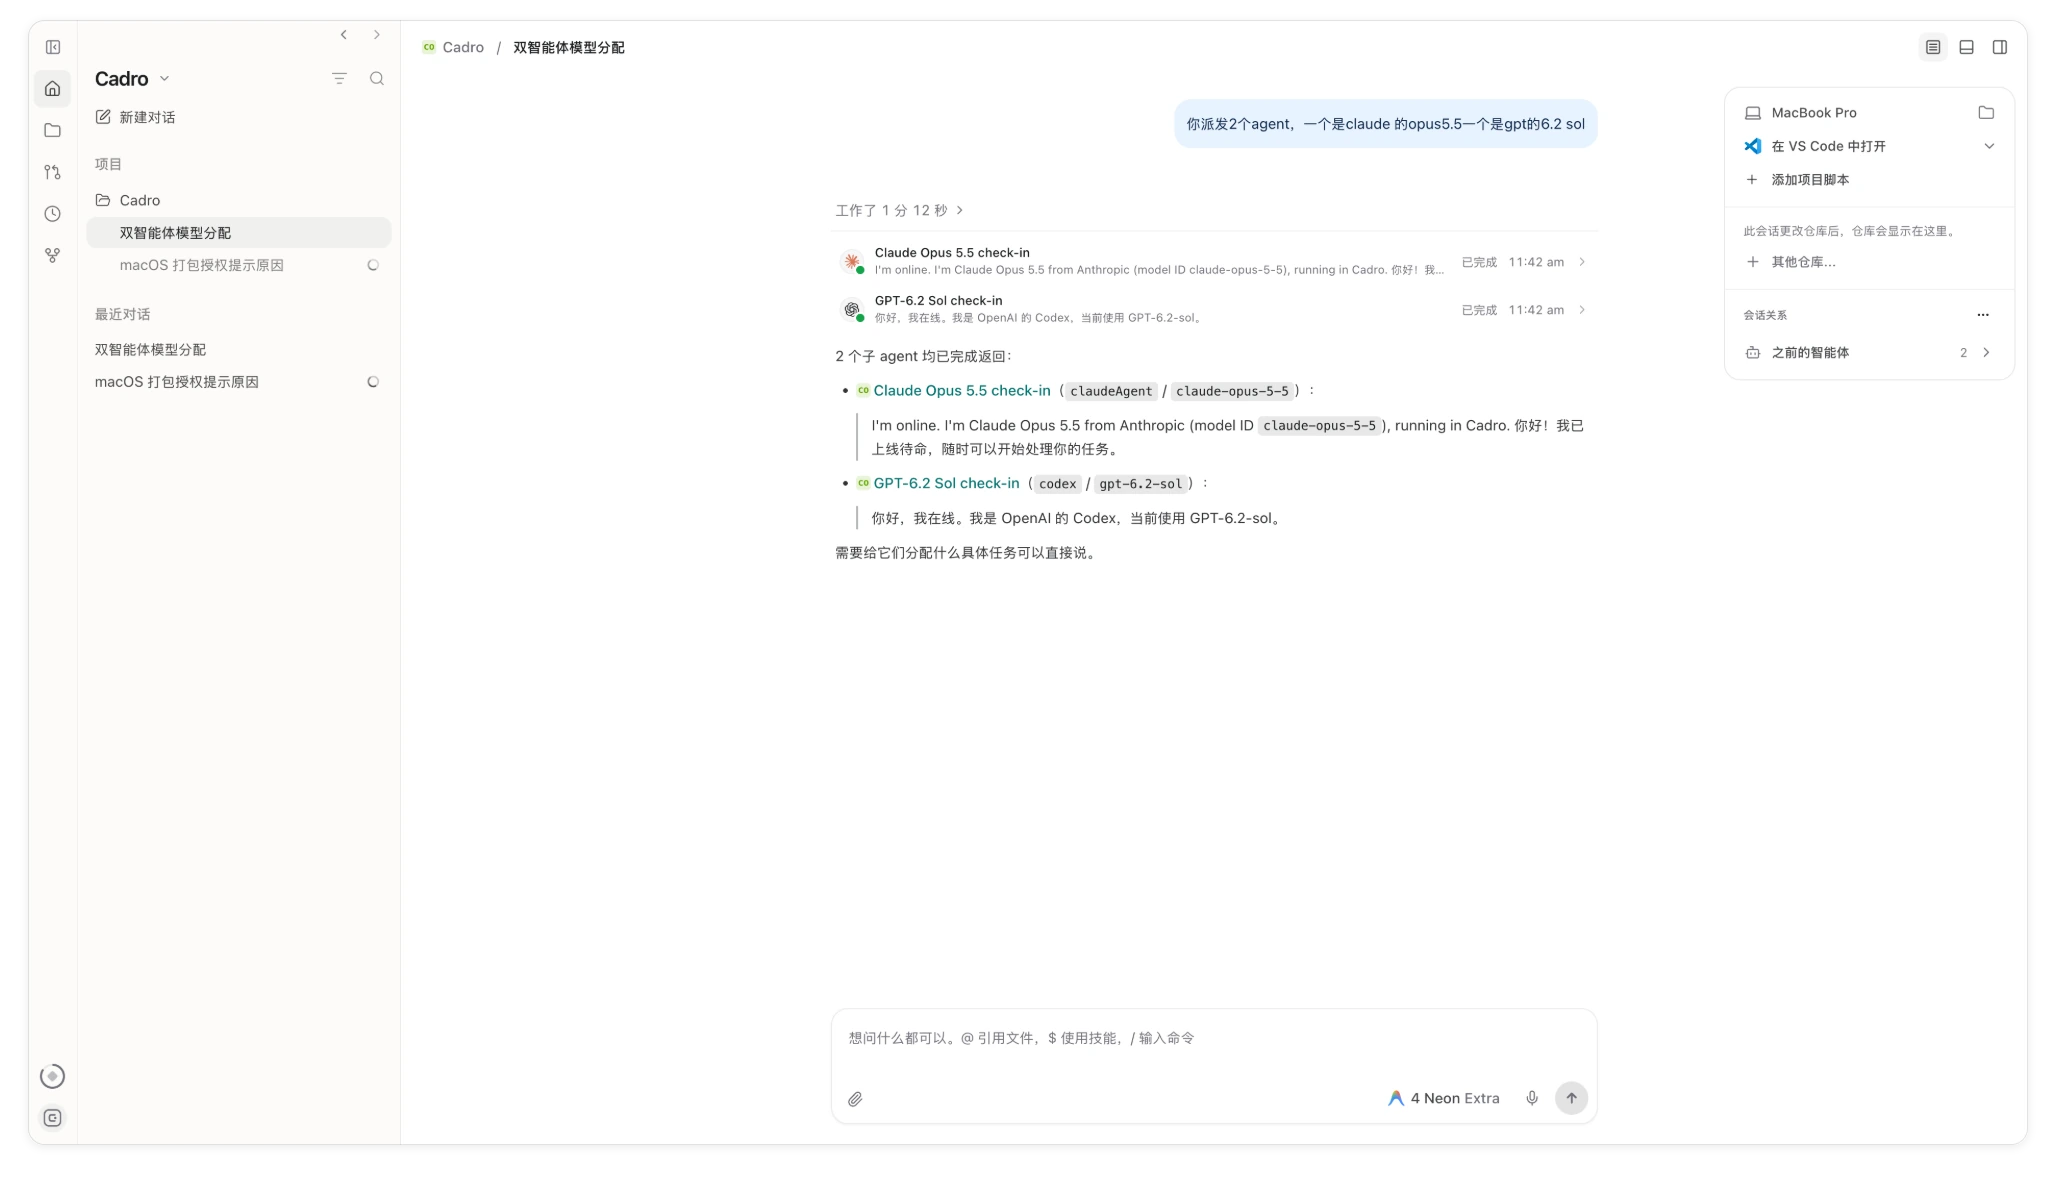
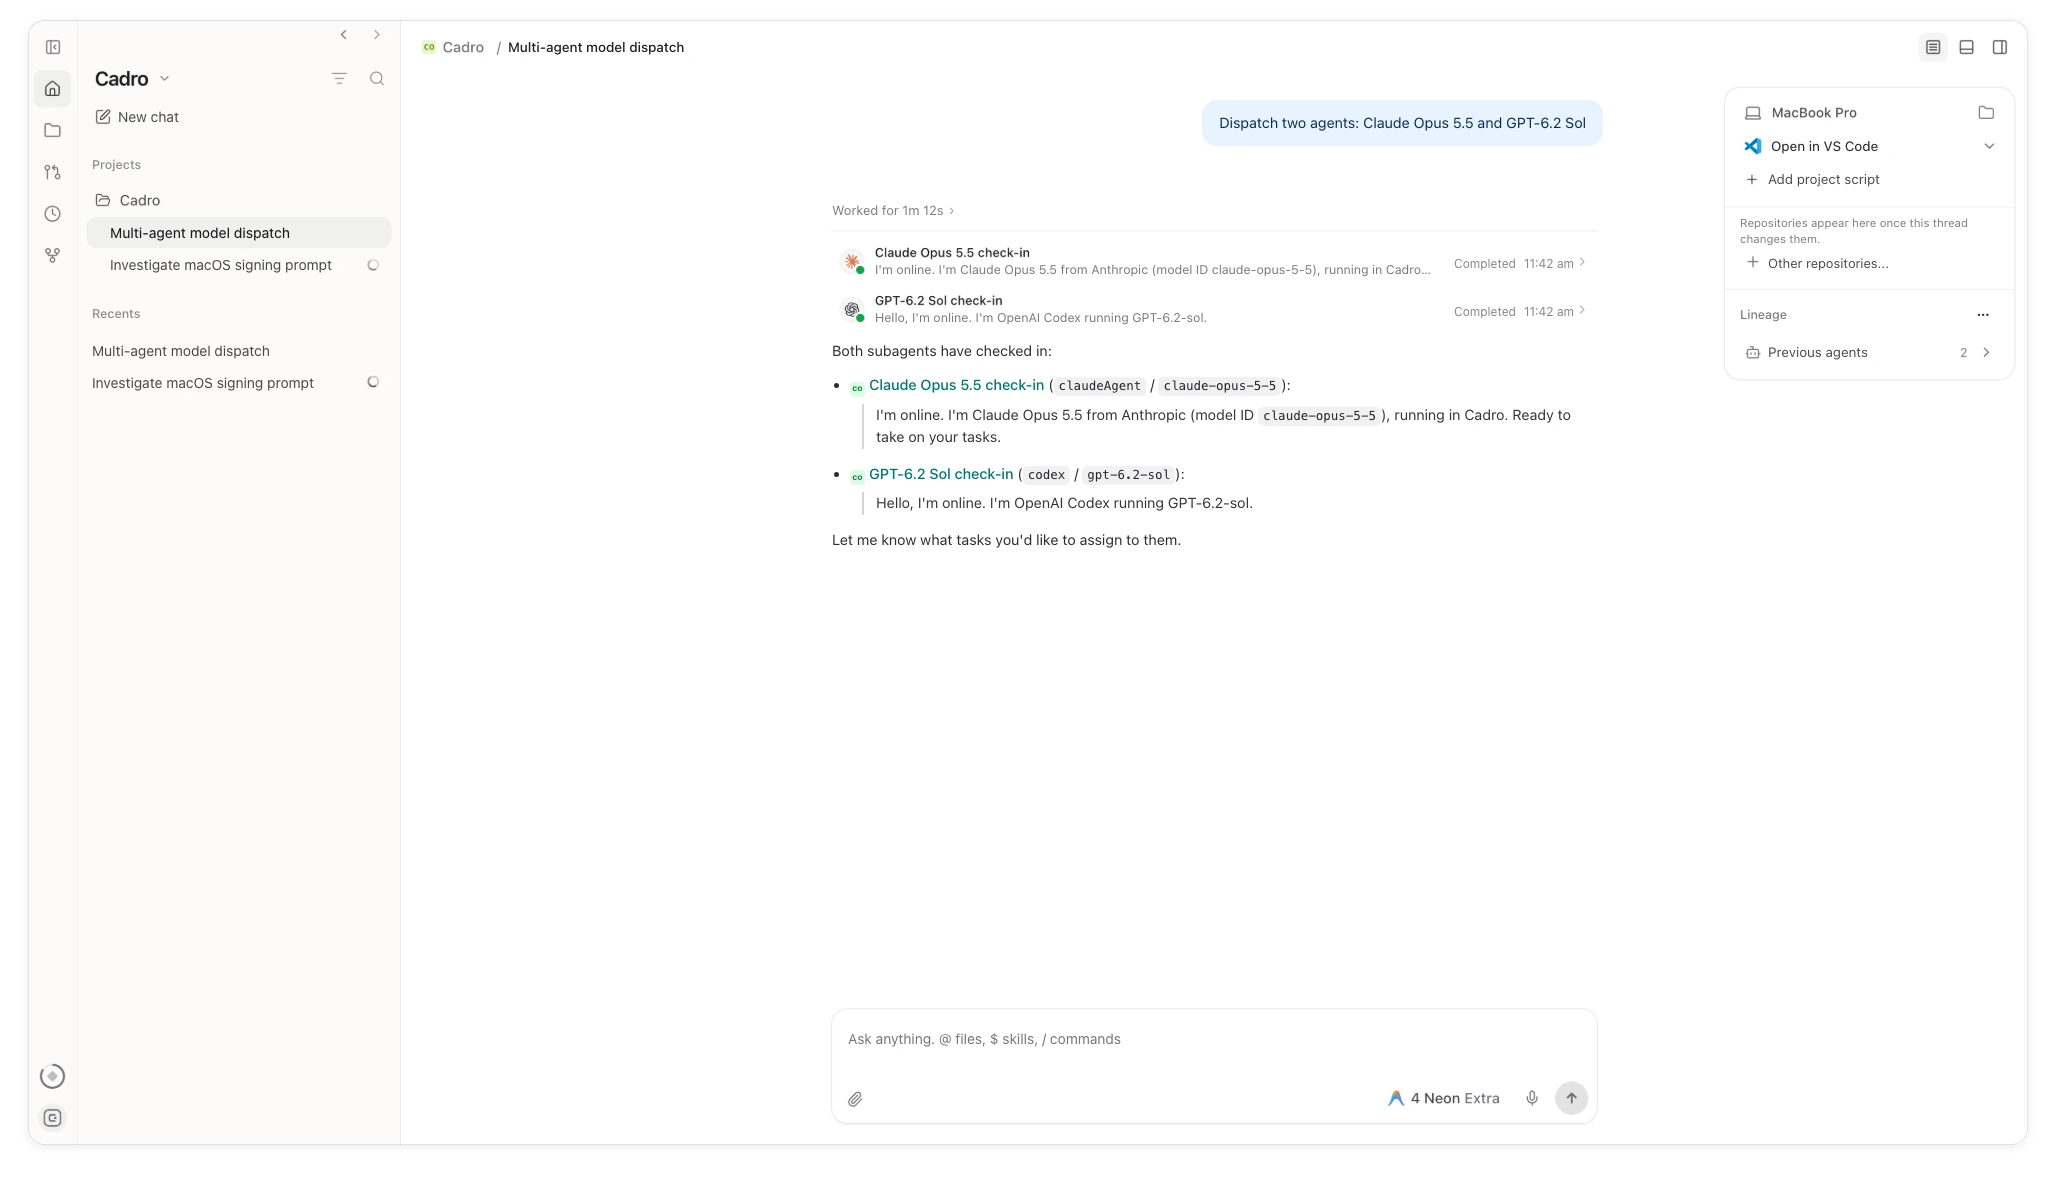
docs: use English UI hero screenshot in README

diff --git a/README.zh-CN.md b/README.zh-CN.md
@@ -36,7 +36,7 @@
 
 <p align="center">
   <img
-    src="./.github/readme/hero.webp"
+    src="./.github/readme/hero-zh.webp"
     width="100%"
     alt="Cadro 桌面端在单个会话中并行派发 Claude 与 Codex 子智能体的演示界面"
   />
